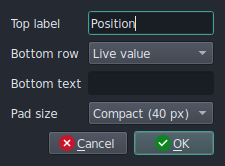
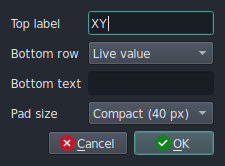
feat(timeline): center toolbar by default and capture Colorway layouts

Changed region(s): [[0.4044, 0.0904, 0.6222, 0.1807]]

diff --git a/tests/main_test.cpp b/tests/main_test.cpp
@@ -14,6 +14,7 @@
 #include <QTemporaryFile>
 #include <QFile>
 #include <QDir>
+#include <QDataStream>
 #include <util/text-lookup.h>
 #include <QJsonDocument>
 #include <QJsonArray>
@@ -1623,6 +1624,46 @@ private slots:
 	{
 		QCOMPARE(TimelineHitTesting::kMarkerHandleSizePx,
 			 static_cast<int>(TimelineHitTesting::kMarkerGrabRadiusPx * 2.0));
+	}
+
+	void testTimelineCenteredDefaultAndClockDivider()
+	{
+		QTemporaryDir dir;
+		const QString path = dir.filePath("timeline.json");
+		TimelineDock dock(nullptr, path);
+		dock.resize(1400, 180);
+		dock.show();
+		QCoreApplication::processEvents();
+		auto *center = dock.findChild<QCheckBox *>("timeline-center-controls");
+		auto *line = dock.findChild<QFrame *>("timeline-clock-zoom-separator");
+		auto *clock = dock.findChild<QWidget *>("OBSAudioMeter");
+		auto *zoom = dock.findChild<QPushButton *>("timeline-zoom-out-btn");
+		QVERIFY(center && center->isChecked());
+		QVERIFY(line && clock && zoom);
+		auto verifyDivider = [&] {
+			QCoreApplication::processEvents();
+			QVERIFY(line->isVisible());
+			QVERIFY(clock->mapTo(&dock, QPoint(clock->width(), 0)).x() <= line->mapTo(&dock, QPoint()).x());
+			QVERIFY(line->mapTo(&dock, QPoint(line->width(), 0)).x() <= zoom->mapTo(&dock, QPoint()).x());
+		};
+		verifyDivider();
+		QCOMPARE(line->frameShape(), QFrame::VLine);
+		QCOMPARE(line->frameShadow(), QFrame::Sunken);
+		center->setChecked(false);
+		verifyDivider();
+		dock.save();
+		dock.load();
+		QVERIFY(!center->isChecked());
+		center->setChecked(true);
+		auto *compact = dock.findChild<QCheckBox *>("timeline-compact-mode");
+		QVERIFY(compact);
+		compact->setChecked(true);
+		verifyDivider();
+		TimelineDocument document;
+		TimelineModel model;
+		QVERIFY(TimelineSerialization::fromJsonDocument(QJsonDocument(QJsonObject{{"events", QJsonArray{}}}),
+								model, document));
+		QVERIFY(document.centerControls);
 	}
 
 	void testTimelineCompactModeRefreshesLayoutAndFitsMarkers()
@@ -3336,6 +3377,33 @@ private:
 		palette.setColor(QPalette::Highlight, QColor("#55c7b6"));
 		palette.setColor(QPalette::HighlightedText, QColor("#121c21"));
 		palette.setColor(QPalette::Disabled, QPalette::Text, QColor("#89919e"));
+		const QString nativeTheme = qEnvironmentVariable("TIMELINE_DOC_THEME");
+		const auto originalStyleSheet = qApp->styleSheet();
+		const auto originalFont = qApp->font();
+		const auto originalThemePaths = QDir::searchPaths("theme");
+		const auto originalObsPaths = QDir::searchPaths("obs");
+		auto restoreTheme = qScopeGuard([&] {
+			qApp->setStyleSheet(originalStyleSheet);
+			qApp->setFont(originalFont);
+			QDir::setSearchPaths("theme", originalThemePaths);
+			QDir::setSearchPaths("obs", originalObsPaths);
+		});
+		if (!nativeTheme.isEmpty()) {
+			QDir theme(nativeTheme);
+			QFile data(theme.filePath("theme.qt"));
+			QFile css(theme.filePath("theme.qss"));
+			QVERIFY(data.open(QIODevice::ReadOnly));
+			QVERIFY(css.open(QIODevice::ReadOnly));
+			QDataStream stream(&data);
+			QFont font;
+			QStringList themePaths, obsPaths;
+			stream >> palette >> font >> themePaths >> obsPaths;
+			QCOMPARE(stream.status(), QDataStream::Ok);
+			QDir::setSearchPaths("theme", themePaths);
+			QDir::setSearchPaths("obs", obsPaths);
+			qApp->setFont(font);
+			qApp->setStyleSheet(QString::fromUtf8(css.readAll()));
+		}
 		QApplication::setPalette(palette);
 
 		QTemporaryDir temp;
@@ -3371,7 +3439,7 @@ private:
 		knob.label = "Intensity";
 		knob.binding = gain;
 		xy.kind = MacroControlKind::XY;
-		xy.label = "Position";
+		xy.label = "XY";
 		xy.binding = gain;
 		xy.bindingY = count;
 		toggle.kind = MacroControlKind::Toggle;
@@ -3461,6 +3529,12 @@ private:
 		timeline.resize(1040, 180);
 		settle(timeline);
 		QVERIFY(timeline.grab().save(dir.filePath("timeline.png")));
+		auto *compact = timeline.findChild<QCheckBox *>("timeline-compact-mode");
+		QVERIFY(compact);
+		compact->setChecked(true);
+		timeline.resize(1040, timeline.minimumHeight());
+		settle(timeline);
+		QVERIFY(timeline.grab().save(dir.filePath("timeline-compact.png")));
 	}
 
 private slots:

diff --git a/src/timeline-dock.cpp b/src/timeline-dock.cpp
@@ -385,6 +385,8 @@ void TimelineDock::setupUi()
 	settingsSeparator = createSeparator();
 	playbackSeparator = createSeparator();
 	zoomSeparator = createSeparator();
+	clockZoomSeparator = createSeparator();
+	clockZoomSeparator->setObjectName("timeline-clock-zoom-separator");
 	addSeparator = createSeparator();
 	modeSeparator = createSeparator();
 	snapSeparator = createSeparator();
@@ -473,6 +475,8 @@ void TimelineDock::setupUi()
 	connect(bpmModeBtn, &QPushButton::toggled, this, refreshIconColors);
 
 	centerControlsCheckbox = new QCheckBox(obs_module_text("TimelineDock.CenterControls"), this);
+	centerControlsCheckbox->setObjectName("timeline-center-controls");
+	centerControlsCheckbox->setChecked(centerControls);
 	centerControlsCheckbox->setToolTip("Center controls in the interface");
 	connect(centerControlsCheckbox, &QCheckBox::toggled, this, &TimelineDock::onCenterControlsToggled);
 
@@ -790,7 +794,7 @@ void TimelineDock::updateControlsLayout()
 
 	// Time display sits close to playback controls (no large stretches)
 	controlsLayout->addWidget(show(timecodeDisplay));
-	controlsLayout->addSpacing(8);
+	controlsLayout->addWidget(show(clockZoomSeparator));
 
 	controlsLayout->addWidget(show(zoomToggleContainer));
 	controlsLayout->addWidget(show(zoomSeparator));

diff --git a/src/timeline-serialization.cpp b/src/timeline-serialization.cpp
@@ -64,7 +64,7 @@ bool TimelineSerialization::fromJsonDocument(const QJsonDocument &doc, TimelineM
 	outDocument.bpm = settings["bpm"].toDouble(120.0);
 	outDocument.gridToBpm = settings["gridToBpm"].toBool(false);
 	outDocument.noteLengthBeats = settings["noteLengthBeats"].toDouble(1.0);
-	outDocument.centerControls = settings["centerControls"].toBool(false);
+	outDocument.centerControls = settings["centerControls"].toBool(true);
 	outDocument.alternatingBg = settings["alternatingBg"].toBool(false);
 	outDocument.compactMode = settings["compactMode"].toBool(false);
 	outDocument.showEndTimeOnDock = settings["showEndTimeOnDock"].toBool(true);

diff --git a/src/timeline-dock.h b/src/timeline-dock.h
@@ -153,6 +153,7 @@ private:
 	QFrame *settingsSeparator = nullptr;
 	QFrame *playbackSeparator = nullptr;
 	QFrame *zoomSeparator = nullptr;
+	QFrame *clockZoomSeparator = nullptr;
 	QFrame *addSeparator = nullptr;
 	QFrame *modeSeparator = nullptr;
 	QFrame *snapSeparator = nullptr;
@@ -181,7 +182,7 @@ private:
 	TimecodeDisplay *timecodeDisplay = nullptr;
 
 	// Settings
-	bool centerControls = false;
+	bool centerControls = true;
 	bool alternatingBg = false;
 	bool compactMode = false;
 	bool showEndTimeOnDock = true;

diff --git a/src/timeline-serialization.h b/src/timeline-serialization.h
@@ -15,7 +15,7 @@ struct TimelineDocument {
 	double bpm = 120.0;
 	bool gridToBpm = false;
 	double noteLengthBeats = 1.0; // Quarter note = 1 beat
-	bool centerControls = false;
+	bool centerControls = true;
 	bool alternatingBg = false;
 	bool compactMode = false;
 	bool showEndTimeOnDock = true;

diff --git a/README.md b/README.md
@@ -7,9 +7,11 @@ media and other actions into timed sequences. Its companion Macro Strip dock
 lets you build a compact control surface with buttons, sliders, knobs, toggles, XY pads and
 text entry.
 
-![Timeline dock with a duration ramp, Freeze Time and scene changes](docs/screenshots/timeline.png)
+![Timeline dock with a duration ramp, Freeze Time and scene changes](docs/screenshots/synthwave84/timeline.png)
 
-*Current Timeline interface, captured in an isolated Qt/libobs session.*
+*Timeline with centered controls, using the Colorway Synthwave 84 theme.*
+
+![Timeline compact mode](docs/screenshots/synthwave84/timeline-compact.png)
 
 [Installation](#installation) · [Timeline](#timeline) · [Macro Strip](#macro-strip) ·
 [Shortcuts](#keyboard-shortcuts) · [Documentation](#documentation)
@@ -88,9 +90,9 @@ Build a small control surface for your OBS setup. Open
 **View → Docks → Macro Strip** and use **+** to add an action button or a
 parameter control.
 
-![Compact Macro Strip with action, slider, knob, XY, toggle and text controls](docs/screenshots/macro-strip.png)
+![Compact Macro Strip with action, slider, knob, XY, toggle and text controls](docs/screenshots/synthwave84/macro-strip.png)
 
-![Macro Strip with optional bottom captions and live values](docs/screenshots/macro-strip-readouts.png)
+![Macro Strip with optional bottom captions and live values](docs/screenshots/synthwave84/macro-strip-readouts.png)
 
 | Control | Example use |
 | --- | --- |
@@ -201,13 +203,15 @@ Only play timeline files you trust; they can change your OBS state.
 
 ## Development status
 
-- Native OBS32 source checkpoint `f6ae128` and its documentation harness:
-  **101/101 strict Qt/libobs tests passed**, zero failures/skips.
-- The matching build was installed in native OBS 32.2.0 on Linux.
+- Current local source: **102/102 strict Qt/libobs tests passed**, zero
+  failures/skips. Centered controls are now the default; existing explicit
+  layout choices remain unchanged.
+- Previous source checkpoint `f6ae128` was installed in native OBS 32.2.0 on Linux.
   Both docks and the WebSocket vendor registered in an isolated startup;
   saved timeline and macro configuration checksums were unchanged.
 - The screenshots above use the production Qt widgets with synthetic
-  sources, a dark Fusion palette, English localization and headless Xvfb.
+  sources, the Colorway Synthwave 84 theme resolved by native OBS, English
+  localization and headless Xvfb. Fusion reference captures are retained.
   See [capture instructions](docs/screenshots/README.md).
 - HyperShaderFX effect opacity and a shader uniform have been verified
   through the real plugin's property interface. Render smoothness,

diff --git a/docs/screenshots/README.md b/docs/screenshots/README.md
@@ -2,8 +2,9 @@
 
 These PNGs are actual Timeline and Macro Strip widgets, captured from the
 test harness with real libobs, synthetic sources, the Qt Fusion style and
-a fixed dark palette. The frontend is mocked and the real English locale
-is loaded for the capture. No personal OBS profile or scenes are read.
+a fixed dark palette, or the actual Colorway Synthwave 84 theme. The frontend is mocked and the real English locale
+is loaded for the capture. No personal OBS scenes are used; the themed capture uses only exported
+Qt appearance from an isolated OBS profile.
 They demonstrate the UI, not live-stream rendering or cross-platform
 runtime acceptance.
 
@@ -23,7 +24,27 @@ write documentation assets or override the locale. Review screenshots
 before committing; visual differences can depend on Qt and installed fonts.
 
 - `timeline.png`: timed scene changes, a parameter ramp and a clock hold.
+- `timeline-compact.png`: the compact layout with the same cues.
 - `macro-strip.png`: compact default layout with six kinds of controls.
 - `macro-strip-readouts.png`: optional bottom caption/readout row.
 - `toggle-editor.png`: numeric preset assignment.
 - `appearance-editor.png`: top label, lower row and XY size options.
+
+## Colorway theme capture
+
+The `synthwave84/` set uses the native OBS 32.2.0 resolved stylesheet,
+palette, font and Qt resource search paths for Colorway Synthwave 84.
+The theme was loaded by OBS in a disposable profile with only theme
+assets copied from the installed theme directory.
+
+The optional `TIMELINE_DOC_THEME` variable points to a local export
+directory containing `theme.qss` (QApplication::styleSheet) and
+`theme.qt` (QDataStream containing QPalette, QFont, theme search
+paths and obs search paths, in order). Theme resources must still be
+available at the exported search paths. Set this variable and change
+the screenshot output directory to capture themed variants using the
+same command above. Theme sources and exported machine-specific data
+are not redistributed here. The root PNGs are the Fusion reference set.
+
+The captures retain the existing native separator rendering, including
+the new clock/zoom divider; theme-dependent contrast is unchanged.

diff --git a/ACTIVE_WORK.md b/ACTIVE_WORK.md
@@ -1,6 +1,14 @@
 <!-- meristem-template:v1 -->
 # Active Work — Timeline preview readiness
 
+### Centered toolbar and Colorway captures — 2026-11-19
+
+- User requested centered controls by default, a divider between clock and zooms, and selected screenshots in their actual theme. Defaults changed consistently in dock and document parsing; explicit saved false preserved. New divider uses existing QFrame factory in both normal and compact layouts.
+- User explicitly objected to unrequested divider coloring/opacity adjustments. Removed experimental custom separator painter entirely. Keep existing divider rendering and theme rules; do not adjust color, opacity or style merely to improve screenshot contrast.
+- Native OBS isolated profile resolved installed Colorway Synthwave 84; temporary capture-only module exported actual Qt stylesheet, palette, font and resource paths. Harness captured normal/compact timeline, both macro caption layouts and two editors. Fusion references retained. No normal profile/scene capture; no theme source redistribution. Existing divider is subtle in this theme; retained as requested.
+- RED default/position regression; focused tests passed after changes, capture runs passed. Full strict native suite gate 102 tests; logs /tmp/timeline-center-final-focused.log, /tmp/timeline-center-final-full.log, /tmp/timeline-center-theme.log. Installed f6ae128 and remote 845aaa1 unchanged until separately requested. No release.
+
+
 ## Installed checkpoint and documentation captures — 2026-11-19
 
 - Installed production commit `f6ae128` in native OBS32.2.0. Staged/installed assets match, ELF build ID and relocation checks verified, both docks and WebSocket vendor registered in isolated startup. User configuration checksums unchanged; rollback archive and detailed logs recorded in ignored local history.

diff --git a/docs/USAGE.md b/docs/USAGE.md
@@ -3,6 +3,13 @@
 The [README](../README.md) is the quick start. This guide describes action
 semantics, binding behavior and operational details for the current preview.
 
+## Toolbar layout
+
+New timelines default to centered playback, clock and zoom controls.
+Existing explicit alignment preferences are preserved. Center controls
+can be toggled in the settings menu. The clock and zoom group are
+separated using the same native divider as the other toolbar groups.
+
 ## Action behavior
 
 ### Scene switch
@@ -224,7 +231,7 @@ transforms and manual ramp controls are not included in Macro Strip.
 
 ### Labels and appearance
 
-![Appearance editor for an XY controller](screenshots/appearance-editor.png)
+![Appearance editor for an XY controller](screenshots/synthwave84/appearance-editor.png)
 
 Right-click any control and choose **Labels and appearance** to rename
 the top label independently of its action or binding. By default only
@@ -259,7 +266,7 @@ before downgrading.
 
 ### Two-state toggles
 
-![Configuration of two numeric states in the parameter binding editor](screenshots/toggle-editor.png)
+![Configuration of two numeric states in the parameter binding editor](screenshots/synthwave84/toggle-editor.png)
 
 Choose Toggle and bind a supported scalar property. Booleans use the ordinary
 unchecked/checked false/true behavior. For integer, float or editable text
